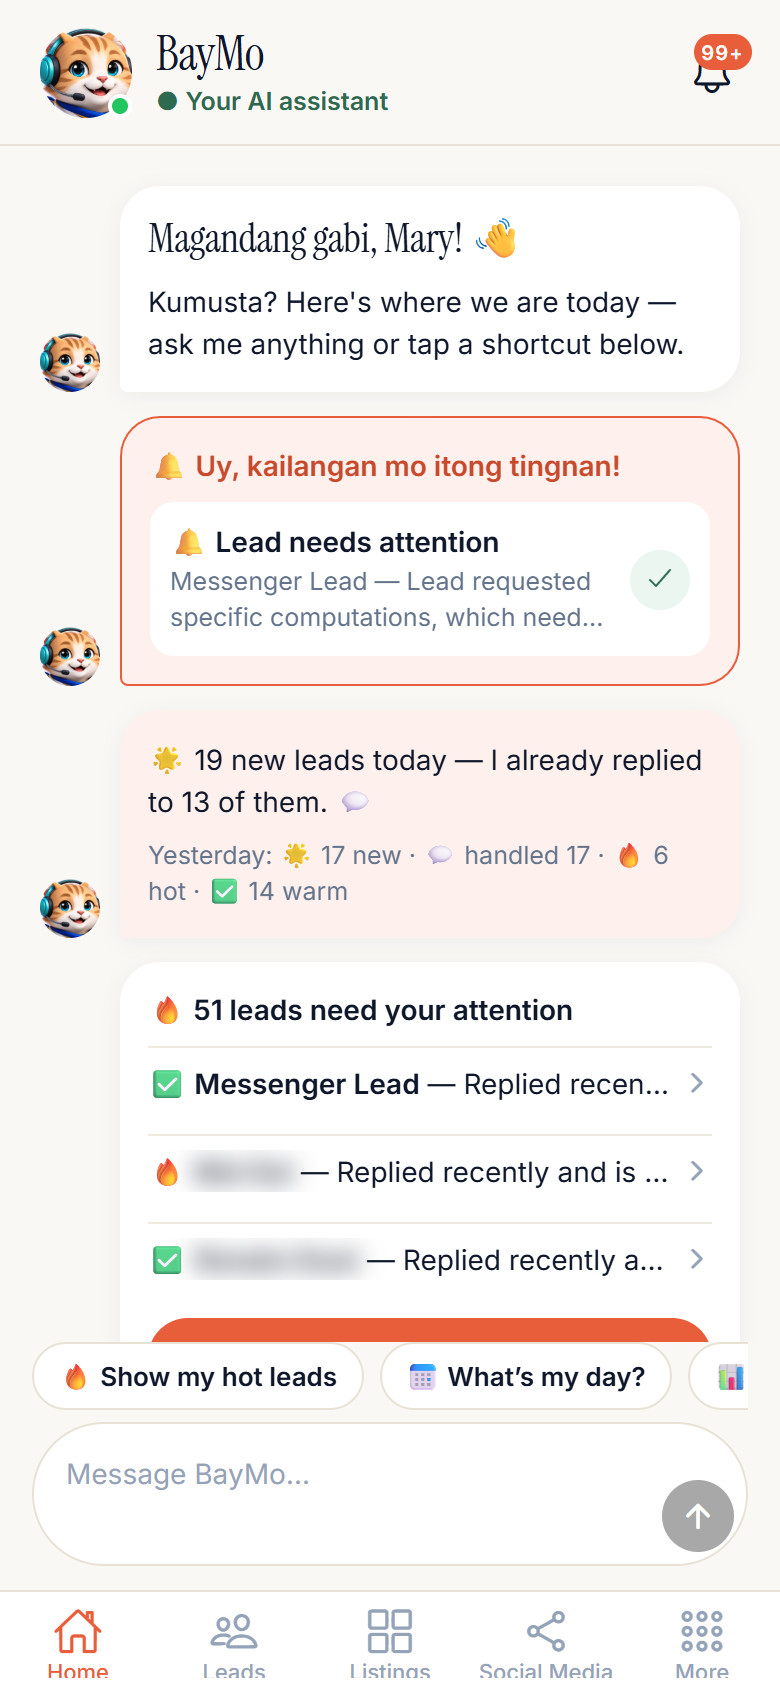
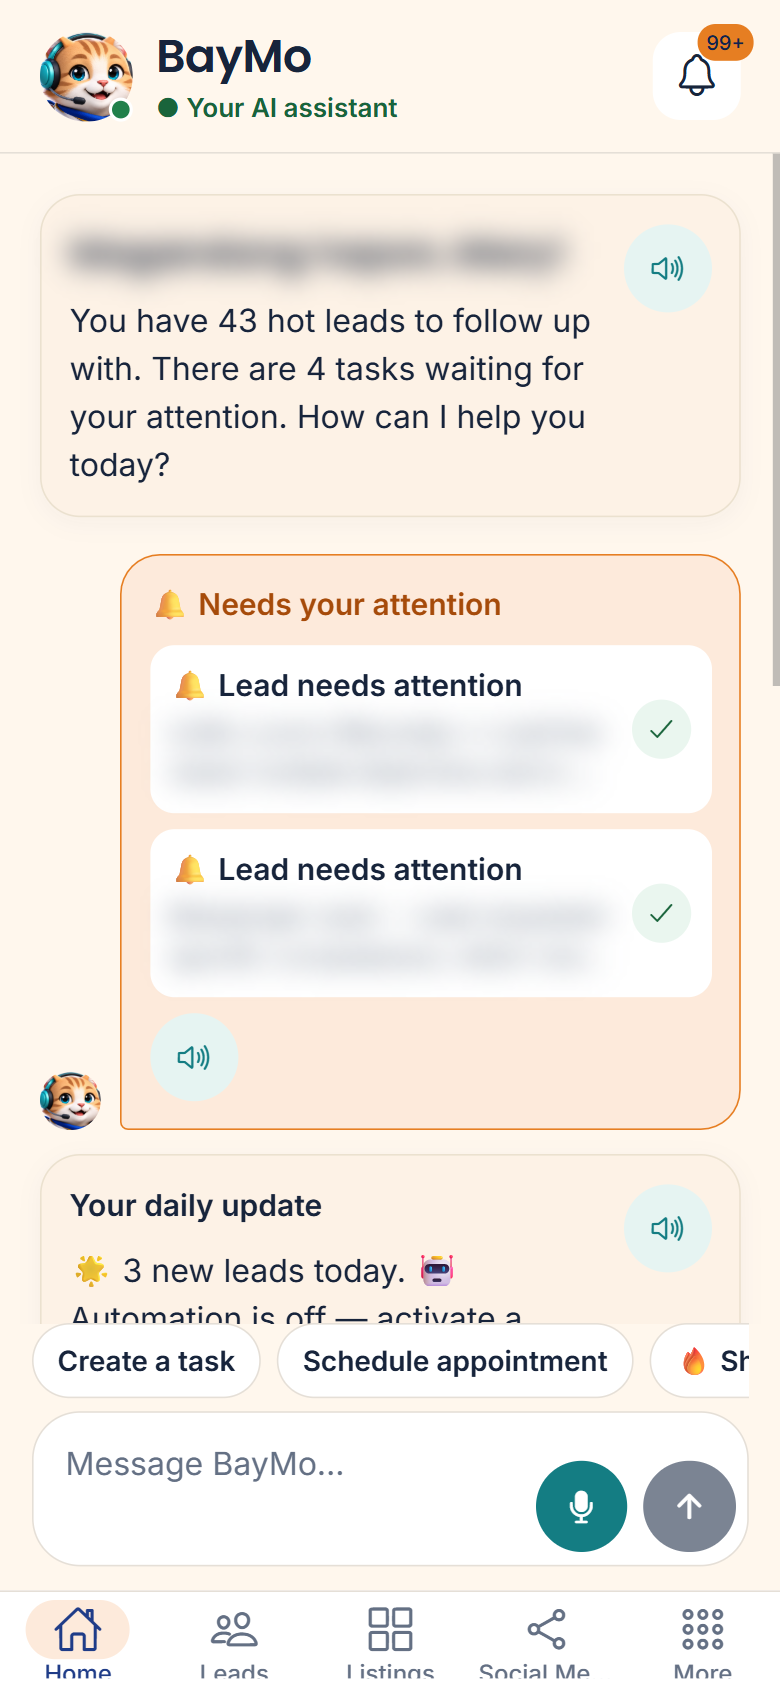
Update mobile screenshots with sign-in and home views

diff --git a/index.html b/index.html
@@ -115,8 +115,8 @@
 
           <div class="screen-card phone phone-a">
             <img
-              src="assets/screens/leads.png"
-              alt="BaMo mobile leads screen"
+              src="assets/screens/sign-in.png"
+              alt="BaMo mobile sign-in screen"
             >
           </div>
 
@@ -422,8 +422,8 @@
           </figure>
 
           <figure class="app-shot reveal">
-            <img src="assets/screens/leads.png" alt="Leads">
-            <figcaption>Leads</figcaption>
+            <img src="assets/screens/sign-in.png" alt="BaMo sign-in screen">
+            <figcaption>Sign In</figcaption>
           </figure>
 
           <figure class="app-shot reveal">
